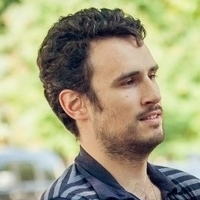
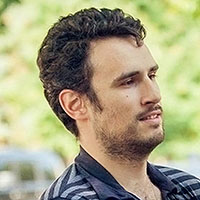
Added machour to core team

diff --git a/config/members.php b/config/members.php
@@ -239,5 +239,16 @@ return [
         'twitter' => 'hiqsol',
         'status' => TeamStatus::TEAM_STATUS_ACTIVE,
     ],
-
+    [
+        'name' => 'Mehdi Achour',
+        'id' => '254264',
+        'forumName' => 'machour',
+        'period' => 'May 2019',
+        'location' => ' Tunisia',
+        'duty' => 'Yii 3.0 development',
+        'photo' => '@web/image/team/machour.jpg',
+        'github' => 'machour',
+        'twitter' => 'mac_hour',
+        'status' => TeamStatus::TEAM_STATUS_ACTIVE,
+    ],
 ];
